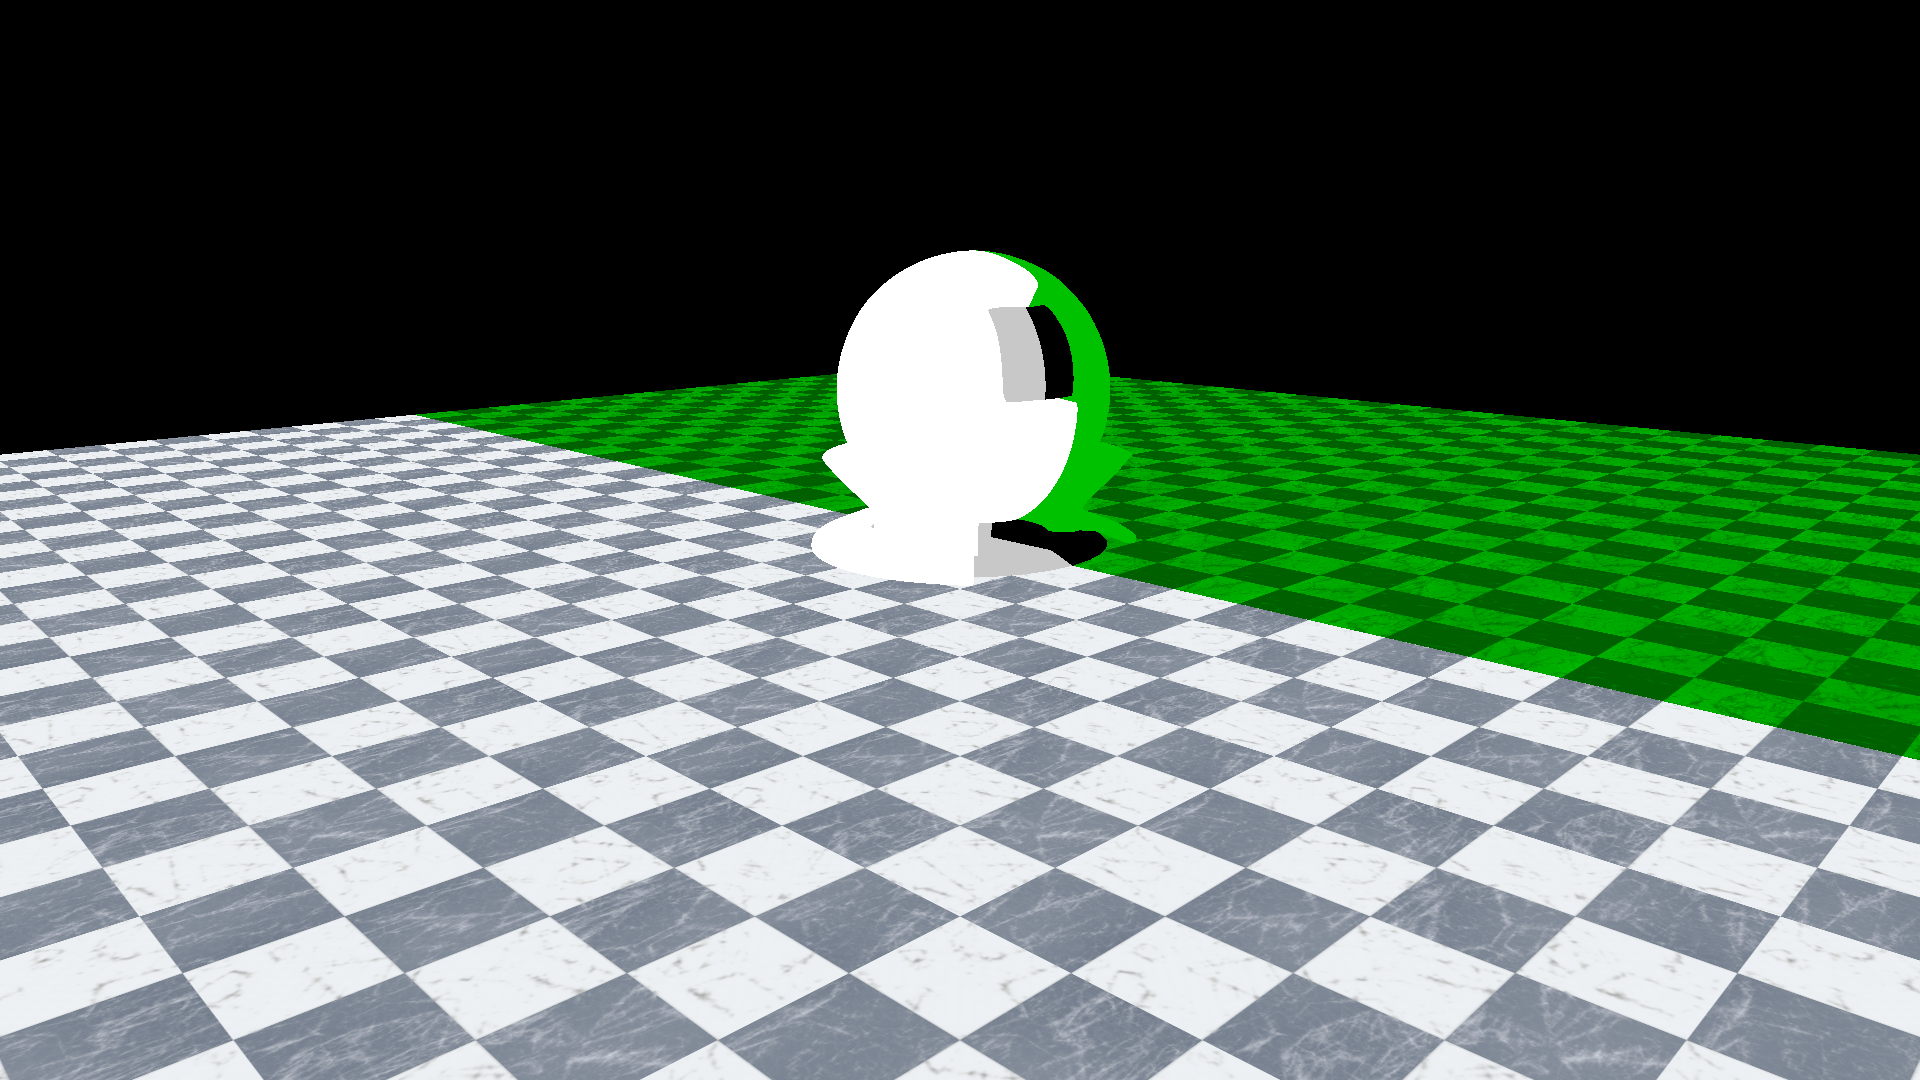
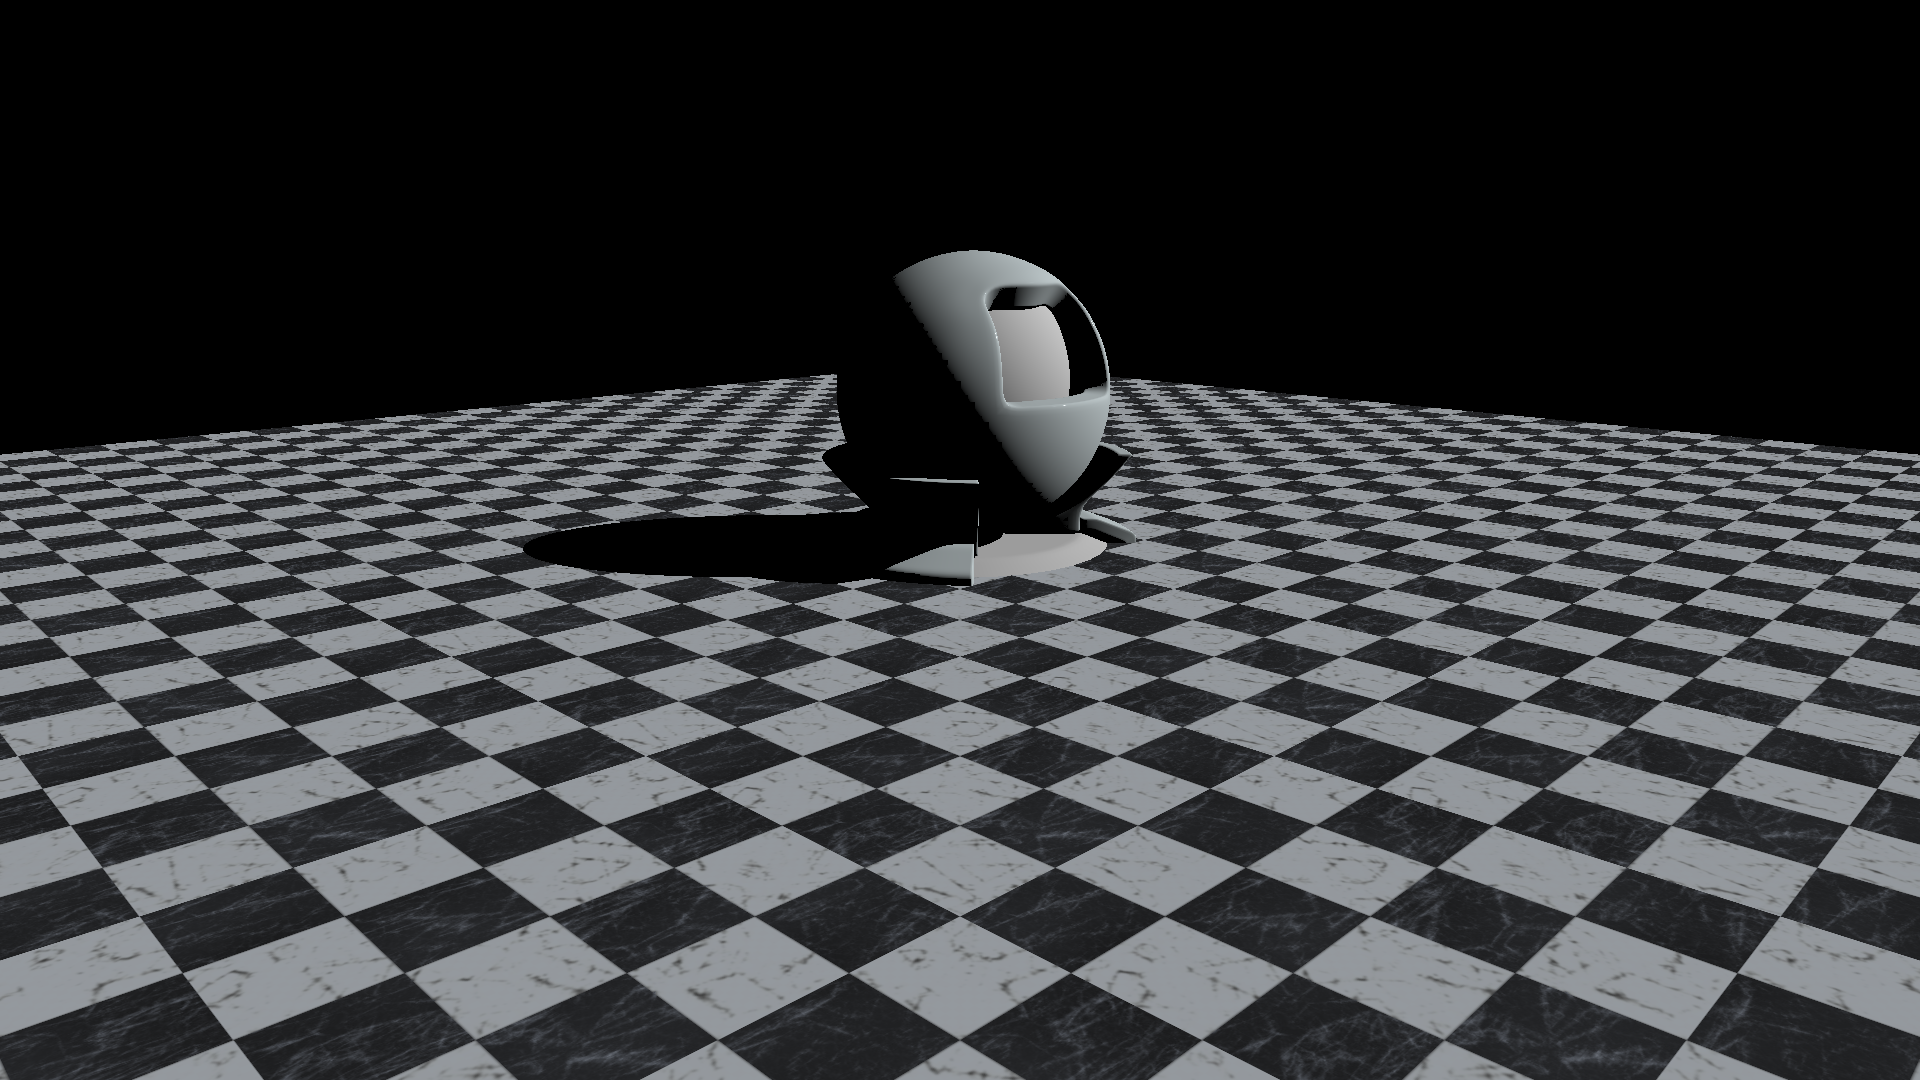
wip

diff --git a/sources/RenderSystem/FrameGraph/autogen/pass/Denoise/NRD/NRD_ShadowCombine.h b/sources/RenderSystem/FrameGraph/autogen/pass/Denoise/NRD/NRD_ShadowCombine.h
@@ -32,6 +32,9 @@ namespace Denoise
 				Handlers::Texture GBuffer_Specular = ResourceID::GBuffer_Specular;
 
 
+				Handlers::Texture GBuffer_Material = ResourceID::GBuffer_Material;
+
+
 				Handlers::Texture GBuffer_Speed = ResourceID::GBuffer_Speed;
 
 
@@ -63,6 +66,7 @@ namespace Denoise
 					builder.need(data.GBuffer_Albedo, FrameGraph::ResourceFlags::Read);
 					builder.need(data.GBuffer_Normals, FrameGraph::ResourceFlags::Read);
 					builder.need(data.GBuffer_Specular, FrameGraph::ResourceFlags::Read);
+					builder.need(data.GBuffer_Material, FrameGraph::ResourceFlags::Read);
 					builder.need(data.GBuffer_Speed, FrameGraph::ResourceFlags::Read);
 					builder.need(data.GBuffer_DepthMips, FrameGraph::ResourceFlags::None);
 					builder.need(data.VSM_ShadowDenoised, FrameGraph::ResourceFlags::Read);
@@ -78,6 +82,7 @@ namespace Denoise
 					FrameGraph::ChainIndex GBuffer_Albedo = FrameGraph::ChainIndex::Unresolved;
 					FrameGraph::ChainIndex GBuffer_Normals = FrameGraph::ChainIndex::Unresolved;
 					FrameGraph::ChainIndex GBuffer_Specular = FrameGraph::ChainIndex::Unresolved;
+					FrameGraph::ChainIndex GBuffer_Material = FrameGraph::ChainIndex::Unresolved;
 					FrameGraph::ChainIndex GBuffer_Speed = FrameGraph::ChainIndex::Unresolved;
 					FrameGraph::ChainIndex GBuffer_DepthMips = FrameGraph::ChainIndex::Unresolved;
 					FrameGraph::ChainIndex VSM_ShadowDenoised = FrameGraph::ChainIndex::Unresolved;
@@ -89,6 +94,7 @@ namespace Denoise
 					cache.GBuffer_Albedo = FrameGraph::TaskBuilder::cache_slot(data.GBuffer_Albedo, ResourceID::GBuffer_Albedo);
 					cache.GBuffer_Normals = FrameGraph::TaskBuilder::cache_slot(data.GBuffer_Normals, ResourceID::GBuffer_Normals);
 					cache.GBuffer_Specular = FrameGraph::TaskBuilder::cache_slot(data.GBuffer_Specular, ResourceID::GBuffer_Specular);
+					cache.GBuffer_Material = FrameGraph::TaskBuilder::cache_slot(data.GBuffer_Material, ResourceID::GBuffer_Material);
 					cache.GBuffer_Speed = FrameGraph::TaskBuilder::cache_slot(data.GBuffer_Speed, ResourceID::GBuffer_Speed);
 					cache.GBuffer_DepthMips = FrameGraph::TaskBuilder::cache_slot(data.GBuffer_DepthMips, ResourceID::GBuffer_DepthMips);
 					cache.VSM_ShadowDenoised = FrameGraph::TaskBuilder::cache_slot(data.VSM_ShadowDenoised, ResourceID::VSM_ShadowDenoised);
@@ -107,6 +113,7 @@ namespace Denoise
 					builder.load(data.GBuffer_Albedo, ResourceID::GBuffer_Albedo, cache.GBuffer_Albedo);
 					builder.load(data.GBuffer_Normals, ResourceID::GBuffer_Normals, cache.GBuffer_Normals);
 					builder.load(data.GBuffer_Specular, ResourceID::GBuffer_Specular, cache.GBuffer_Specular);
+					builder.load(data.GBuffer_Material, ResourceID::GBuffer_Material, cache.GBuffer_Material);
 					builder.load(data.GBuffer_Speed, ResourceID::GBuffer_Speed, cache.GBuffer_Speed);
 					builder.load(data.GBuffer_DepthMips, ResourceID::GBuffer_DepthMips, cache.GBuffer_DepthMips);
 					builder.load(data.VSM_ShadowDenoised, ResourceID::VSM_ShadowDenoised, cache.VSM_ShadowDenoised);
@@ -120,6 +127,7 @@ namespace Denoise
 					{ ResourceID::GBuffer_Albedo, false },
 					{ ResourceID::GBuffer_Normals, false },
 					{ ResourceID::GBuffer_Specular, false },
+					{ ResourceID::GBuffer_Material, false },
 					{ ResourceID::GBuffer_Speed, false },
 					{ ResourceID::GBuffer_DepthMips, false },
 					{ ResourceID::VSM_ShadowDenoised, false },

diff --git a/sources/RenderSystem/FrameGraph/autogen/pass/Frame/MainPipeline.pipeline.h b/sources/RenderSystem/FrameGraph/autogen/pass/Frame/MainPipeline.pipeline.h
@@ -665,10 +665,11 @@ namespace Frame
 			{ PassID::RTXCombine, 0 },
 			{ PassID::SSSRR_BlurH, 0 },
 			{ PassID::SSSRR_BlurV, 0 },
+			{ PassID::NRD_ShadowCombine, 0 },
 		};
 		static inline const FrameGraph::PrecompiledState GBuffer_Material_c0_states[] = {
 			{ true, { GBuffer_Material_c0_pass_refs + 0, 1 } },
-			{ false, { GBuffer_Material_c0_pass_refs + 1, 13 } },
+			{ false, { GBuffer_Material_c0_pass_refs + 1, 14 } },
 		};
 		static inline const FrameGraph::PassRef GBuffer_DepthMips_c0_pass_refs[] = {
 			{ PassID::Scene, 0 },
